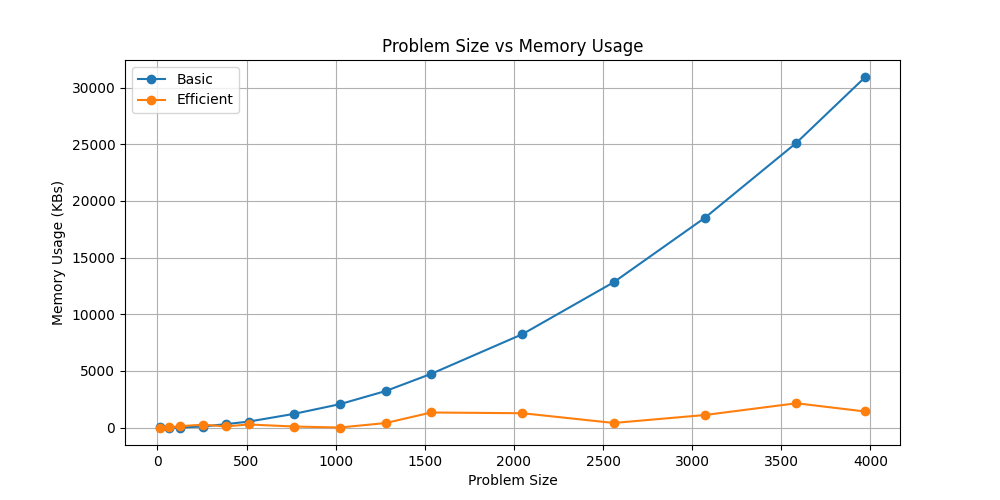
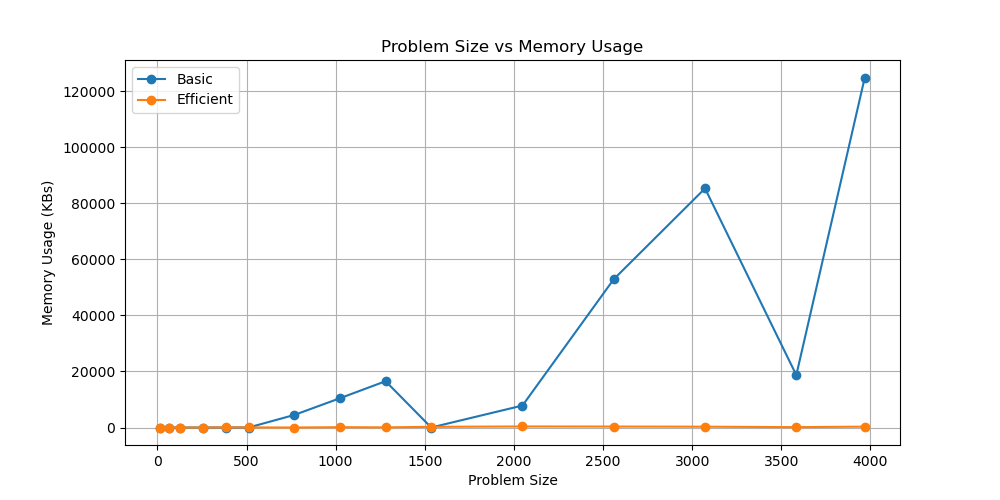
new efficient only graph

diff --git a/solutions/efficient_3.py b/solutions/efficient_3.py
@@ -220,48 +220,42 @@ if __name__ == "__main__":
     
     peak_memory_usage = max(memory_history) - memory_before
     reset_memory() 
-    
-    print(f"{int(cost)}\n")
-    print(f"{aligned_str_1}\n")
-    print(f"{aligned_str_2}\n")
-    print(f"{time_taken}\n")
-    print(f"{peak_memory_usage}")
 
-    # with open(output_file_path, 'w') as file:
-    #      file.write(f"{int(cost)}\n")
-    #      file.write(f"{aligned_str_1}\n")
-    #      file.write(f"{aligned_str_2}\n")
-    #      file.write(f"{time_taken}\n")
-    #      file.write(f"{peak_memory_usage}")
+    with open(output_file_path, 'w') as file:
+         file.write(f"{int(cost)}\n")
+         file.write(f"{aligned_str_1}\n")
+         file.write(f"{aligned_str_2}\n")
+         file.write(f"{time_taken}\n")
+         file.write(f"{peak_memory_usage}")
          
-    # # collect data for generating graphs & write data to file
-    # import os 
+    # collect data for generating graphs & write data to file
+    import os 
     
-    # directory = 'datapoints'
-    # time_results = []
-    # memory_results = []
-    # problem_sizes = []
+    directory = 'datapoints'
+    time_results = []
+    memory_results = []
+    problem_sizes = []
     
-    # for filename in os.listdir(directory):
-    #     file_path = os.path.join(directory, filename)
-    #     str_1, str_2 = read_and_generate_strings(file_path)
-    #     problem_size = len(str_1) + len(str_2)
-    #     problem_sizes.append(problem_size) 
+    for filename in os.listdir(directory):
+        file_path = os.path.join(directory, filename)
+        str_1, str_2 = read_and_generate_strings(file_path)
+        problem_size = len(str_1) + len(str_2)
+        problem_sizes.append(problem_size) 
         
-    #     memory_before = process_memory()
-    #     memory_history.append(memory_before)
-    #     (cost, aligned_str_1, aligned_str_2), time_taken = time_wrapper(divide_and_conquer, str_1, str_2, gap_penalty, mismatch_cost)
+        memory_before = process_memory()
+        memory_history.append(memory_before)
+        (cost, aligned_str_1, aligned_str_2), time_taken = time_wrapper(divide_and_conquer, str_1, str_2, gap_penalty, mismatch_cost)
         
-    #     peak_memory_usage = max(memory_history) - memory_before
-    #     reset_memory() 
+        peak_memory_usage = max(memory_history) - memory_before
+        reset_memory() 
         
-    #     time_results.append(time_taken)
-    #     memory_results.append(peak_memory_usage)
+        time_results.append(time_taken)
+        memory_results.append(peak_memory_usage)
     
-    # with open('graph_data_efficient.txt', 'w') as file:
-    #     # create two sets of tuples; one for (problem_size, time_taken) and one for (problem_size, memory_used)
-    #     time_results_output = ', '.join(f"({problem_sizes[i]}, {time_results[i]})" for i in range(len(problem_sizes))) + '\n'
-    #     memory_results_output = ', '.join(f"({problem_sizes[i]}, {memory_results[i]})" for i in range(len(problem_sizes))) + '\n'
+    with open('graph_data_efficient.txt', 'w') as file:
+        # create two sets of tuples; one for (problem_size, time_taken) and one for (problem_size, memory_used)
+        time_results_output = ', '.join(f"({problem_sizes[i]}, {time_results[i]})" for i in range(len(problem_sizes))) + '\n'
+        memory_results_output = ', '.join(f"({problem_sizes[i]}, {memory_results[i]})" for i in range(len(problem_sizes))) + '\n'
         
-    #     file.write(time_results_output)
-    #     file.write(memory_results_output)
+        file.write(time_results_output)
+        file.write(memory_results_output)

diff --git a/solutions/generate_graphs.py b/solutions/generate_graphs.py
@@ -10,6 +10,26 @@ def read_data(filepath):
         memory_data = sorted(eval(lines[1].strip()), key=lambda x: x[0])
     return time_data, memory_data
 
+def plot_single_graph(data, ylabel , title, filename):
+    assets_dir = Path('./assets')
+    assets_dir.mkdir(parents=True, exist_ok=True)
+    
+    sizes, measurements = zip(*data)
+    
+    plt.figure(figsize=(10, 5))
+    plt.plot(sizes, measurements, label='Efficient', marker='o')
+    
+    plt.xlabel('Problem Size')
+    plt.ylabel(ylabel)
+    plt.title(title)
+    plt.legend()
+    plt.grid(True)
+   
+    file_path = assets_dir / filename
+    plt.savefig(file_path)
+    plt.close() 
+    return file_path
+
 def plot_graph(data_basic, data_efficient, ylabel, title, filename):
     assets_dir = Path('./assets')
     assets_dir.mkdir(parents=True, exist_ok=True)
@@ -42,4 +62,7 @@ time_graph_path = plot_graph(time_basic, time_efficient, 'Time (milliseconds)', 
 print(f"Time graph saved at: {time_graph_path}")
 
 memory_graph_path = plot_graph(memory_basic, memory_efficient, 'Memory Usage (KBs)', 'Problem Size vs Memory Usage', 'memory_graph.png')
+print(f"Memory graph saved at: {memory_graph_path}")
+
+memory_graph_path = plot_single_graph(memory_efficient, 'Memory Usage (KBs)', 'Problem Size vs Memory Usage', 'memory_graph_efficient_only.png')
 print(f"Memory graph saved at: {memory_graph_path}")

diff --git a/solutions/basic_3.py b/solutions/basic_3.py
@@ -207,5 +207,7 @@ if __name__ == "__main__":
         time_results_output = ', '.join(f"({problem_sizes[i]}, {time_results[i]})" for i in range(len(problem_sizes))) + '\n'
         memory_results_output = ', '.join(f"({problem_sizes[i]}, {memory_results[i]})" for i in range(len(problem_sizes))) + '\n'
         
+        print(f'time_results_output {time_results_output}')
         file.write(time_results_output)
+        print(f'memory_results_output {memory_results_output}')
         file.write(memory_results_output)
